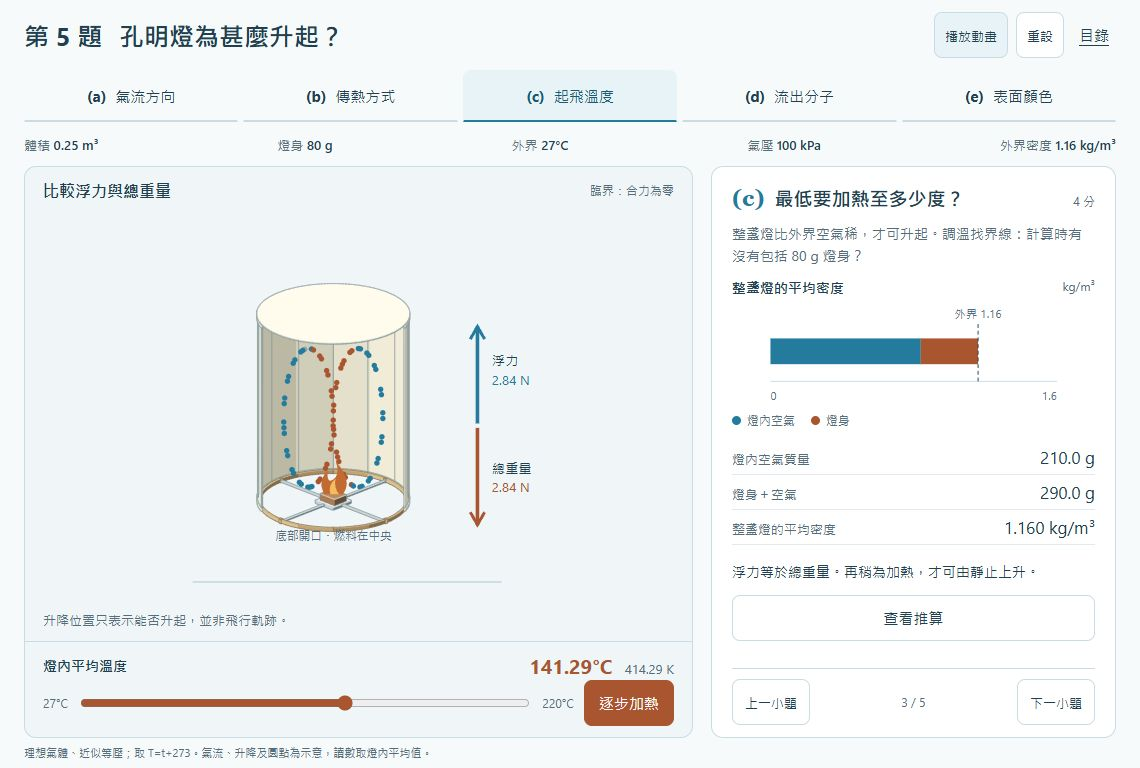
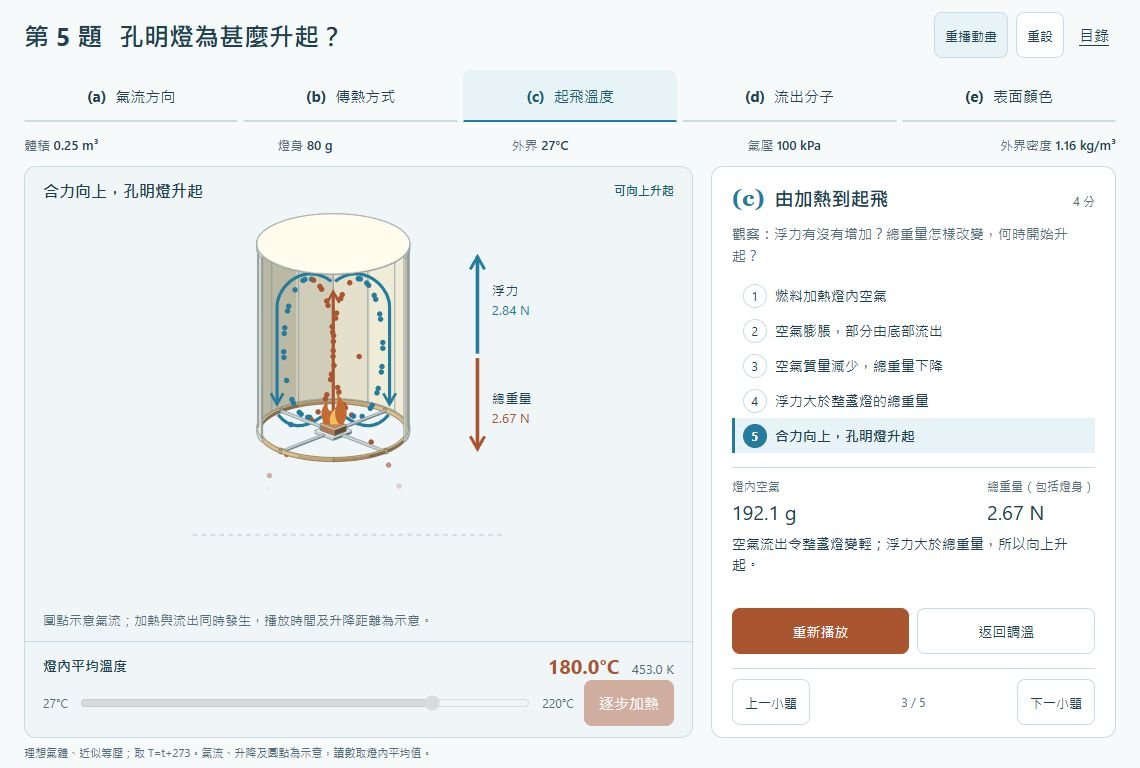
feat(lantern): 展示孔明燈由加熱到起飛的過程

diff --git a/HEAT/kongming-lantern/app.js b/HEAT/kongming-lantern/app.js
@@ -12,6 +12,7 @@
   const reducedMotion = matchMedia("(prefers-reduced-motion: reduce)");
   let step = "a", state = Lantern.solve(27), running = !reducedMotion.matches;
   let heating = false, showArrows = false, phase = 0, lastTime;
+  let flight = null;
   let weights = Lantern.portions(state);
   const svgNS = "http://www.w3.org/2000/svg";
   $("art-back").innerHTML = lanternArt.back;
@@ -55,33 +56,51 @@
   function paint() {
     const flow = Math.min(1, (state.celsius - 27) / 35);
     const microscopic = step === "d";
-    const lift = ["c", "d"].includes(step) ? Math.min(62, Math.max(0, state.netForce) * 130) : 0;
+    const lift = flight ? flight.lift : ["c", "d"].includes(step) ? Math.min(62, Math.max(0, state.netForce) * 130) : 0;
     $("lamp").setAttribute("transform", `translate(0 ${-lift})`);
+    const launchY = flight ? projectAir(0, 29.5, 79.2)[1] + 3 : 412;
+    $("launch-line").setAttribute("d", `M135 ${launchY}H480`);
+    $("launch-line").setAttribute("stroke-dasharray", flight ? "5 5" : "none");
     for (let i = 0; i < 100; i++) {
       const t = phase + i * 2.39996, sign = i % 2 ? 1 : -1;
       const initialH = -55 + (i % 10) * 12 + 1.5 * Math.sin(i * 4);
       const initialZ = 58 + Math.floor(i / 10) * 18 + 1.5 * Math.cos(i * 3);
-      const h = microscopic ? -55 + 110 * wave(i * 0.618 + phase * 0.21)
+      let h = microscopic ? -55 + 110 * wave(i * 0.618 + phase * 0.21)
         : initialH * (1 - flow) + sign * (26 + 26 * Math.cos(t)) * flow;
-      const z = microscopic ? 58 + 166 * wave(i * 0.414 + phase * 0.29)
+      let z = microscopic ? 58 + 166 * wave(i * 0.414 + phase * 0.29)
         : initialZ * (1 - flow) + (143 - 79 * Math.sin(t)) * flow;
+      let opacity = weights[i], leaving = false;
+      if (flight) {
+        // 圓點沿底部開口連續移動，表示氣流；數值仍由等壓氣體模型計算。
+        const departure = (1 - state.fraction) * 100 - (99 - i);
+        const approach = Math.max(0, Math.min(1, (departure + 4) / 4));
+        h = h * (1 - approach) + sign * 42 * approach;
+        z = z * (1 - approach) + 31 * approach;
+        opacity = 1;
+        if (departure > 0) {
+          h = sign * (42 + Math.min(departure, 3) * 9);
+          z = 31 - Math.min(departure, 4) * 12;
+          opacity = Math.max(0, 1 - departure / 5);
+          leaving = true;
+        }
+      }
       const [x, y] = projectAir(h, z);
       dots[i].setAttribute("cx", x);
       dots[i].setAttribute("cy", y);
-      dots[i].setAttribute("opacity", weights[i]);
-      dots[i].setAttribute("fill", !microscopic && flow > 0 && Math.cos(t) < -0.2 ? "#a95530" : "#247b9d");
+      dots[i].setAttribute("opacity", opacity);
+      dots[i].setAttribute("fill", leaving || (!microscopic && flow > 0 && Math.cos(t) < -0.2) ? "#a95530" : "#247b9d");
       const outside = projectAir(-60 + (i % 10) * 13, 7 - (Math.floor((99 - i) / 10) % 4) * 7);
       escaped[i].setAttribute("cx", outside[0]);
       escaped[i].setAttribute("cy", outside[1]);
       escaped[i].setAttribute("opacity", microscopic ? 1 - weights[i] : 0);
     }
-    const arrows = (showArrows && step === "a") || step === "b";
+    const arrows = (showArrows && step === "a") || step === "b" || !!flight;
     $("flow-arrows").style.display = arrows && flow > 0 ? "" : "none";
-    $("flow-labels").style.display = arrows && flow > 0 ? "" : "none";
+    $("flow-labels").style.display = arrows && flow > 0 && !flight ? "" : "none";
     $("forces").style.display = step === "c" ? "" : "none";
-    $("outflow").style.display = microscopic && state.celsius > 27 ? "" : "none";
-    $("opening-label").style.display = microscopic ? "none" : "";
-    $("flame").style.display = state.celsius > 27 || heating ? "" : "none";
+    $("outflow").style.display = (microscopic && state.celsius > 27) || (flight && flight.heating && flight.elapsed > 0) ? "" : "none";
+    $("opening-label").style.display = microscopic || flight ? "none" : "";
+    $("flame").style.display = state.celsius > 27 || heating || flight ? "" : "none";
     $("radiation-rays").style.display = step === "e" ? "" : "none";
     const rayStrength = state.radiation / Lantern.solve(Lantern.MAX, "dark").radiation;
     rays.forEach((ray, i) => ray.setAttribute("opacity", state.celsius === 27 ? 0 : Math.min(1, 0.15 + rayStrength) * (running ? 0.75 + 0.25 * Math.sin(phase * 2 + i) : 1)));
@@ -89,6 +108,33 @@
 
   function render() {
     weights = Lantern.portions(state);
+    const flightTitles = ["燃料加熱空氣", "空氣從底部流出", "總重量逐漸下降", "浮力大於總重量", "合力向上，孔明燈升起"];
+    text("part-title", flight ? "由加熱到起飛" : steps[step][0]);
+    text("question-prompt", flight ? "觀察：浮力有沒有增加？總重量怎樣改變，何時開始升起？" : steps[step][1]);
+    text("scene-title", flight ? flightTitles[flight.stage] : steps[step][2]);
+    $("flight-story").hidden = !flight;
+    $("flight-stop").hidden = !flight;
+    $("part-c").querySelector(".solution-toggle").hidden = !!flight;
+    $("temperature").disabled = !!flight;
+    $("heat").disabled = !!flight;
+    text("flight-play", flight ? "重新播放" : "播放起飛過程");
+    if (flight) {
+      $("part-c").querySelector(".exploration").hidden = true;
+      $("part-c").querySelector(".solution").hidden = true;
+      document.querySelectorAll(".flight-steps li").forEach((item, index) => {
+        item.classList.toggle("passed", index < flight.stage || flight.complete);
+        if (index === flight.stage) item.setAttribute("aria-current", "step");
+        else item.removeAttribute("aria-current");
+      });
+      text("flight-air", `${(state.airMass * 1000).toFixed(1)} g`);
+      text("flight-weight", `${state.weight.toFixed(2)} N`);
+      text("flight-note", state.status === "neutral" ? "臨界約 141°C：浮力＝總重量，仍未由靜止上升。再加熱看看。"
+        : flight.stage === 0 ? "火焰令空氣升溫。孔明燈的體積保持不變。"
+        : flight.stage === 1 ? "底部開口讓部分空氣流出，燈內壓強維持接近大氣壓。"
+        : flight.stage === 2 ? "流出的是空氣；燈身仍是 80 g。總重量下降，浮力維持 2.84 N。"
+        : flight.stage === 3 ? "浮力已大於總重量，出現向上的合力，開始上升。"
+        : "空氣流出令整盞燈變輕；浮力大於總重量，所以向上升起。");
+    }
     const precision = state.status === "neutral" ? 2 : 1;
     $("temperature").value = state.celsius;
     $("temperature").setAttribute("aria-valuetext", `${state.celsius.toFixed(precision)} 攝氏度，${state.temperature.toFixed(precision)} K`);
@@ -128,17 +174,19 @@
       d: "100 點代表初始空氣的等份量；下方橙點為淨流出份量。",
       e: "波線表示輻射散熱；兩種表面以相同溫度比較。"
     };
-    text("scene-caption", captions[step]);
-    text("motion", running ? "暫停動畫" : "播放動畫");
+    const caption = flight ? "圓點示意氣流；加熱與流出同時發生，播放時間及升降距離為示意。" : captions[step];
+    text("scene-caption", caption);
+    text("motion", flight?.complete ? "重播動畫" : running ? "暫停動畫" : "播放動畫");
     $("motion").setAttribute("aria-pressed", String(running));
     text("heat", heating ? "停止加熱" : "逐步加熱");
     $("heat").setAttribute("aria-pressed", String(heating));
-    text("scene-description", `${steps[step][2]}。燈內 ${state.celsius.toFixed(1)} 攝氏度，總密度 ${state.totalDensity.toFixed(3)} kg/m³。${captions[step]}`);
+    text("scene-description", `${$("scene-title").textContent}。燈內 ${state.celsius.toFixed(1)} 攝氏度，總密度 ${state.totalDensity.toFixed(3)} kg/m³。${caption}`);
     paint();
   }
 
   function selectStep(next) {
     if (!steps[next]) return;
+    if (next !== step && flight) endFlight();
     step = next;
     const index = letters.indexOf(step);
     document.querySelectorAll("[data-step]").forEach(button => {
@@ -147,9 +195,6 @@
     });
     for (const letter of letters) $("part-" + letter).hidden = letter !== step;
     text("part-number", `(${step})`);
-    text("part-title", steps[step][0]);
-    text("question-prompt", steps[step][1]);
-    text("scene-title", steps[step][2]);
     text("marks", steps[step][3] + " 分");
     text("part-position", `${index + 1} / 5`);
     $("previous").disabled = index === 0;
@@ -160,6 +205,22 @@
     state = Lantern.solve(value, state.surface);
     render();
   }
+  function endFlight() {
+    flight = null;
+    running = false;
+    $("part-c").querySelector(".exploration").hidden = false;
+  }
+  function startFlight() {
+    heating = false; running = true; phase = 0;
+    flight = Lantern.flight(0, state.surface);
+    state = flight;
+    const solutionButton = $("part-c").querySelector(".solution-toggle");
+    solutionButton.setAttribute("aria-expanded", "false");
+    solutionButton.textContent = "查看推算";
+    render();
+  }
+  $("flight-play").addEventListener("click", startFlight);
+  $("flight-stop").addEventListener("click", () => { endFlight(); render(); });
   document.querySelectorAll("[data-step]").forEach(button => button.addEventListener("click", () => selectStep(button.dataset.step)));
   $("previous").addEventListener("click", () => selectStep(letters[letters.indexOf(step) - 1]));
   $("next").addEventListener("click", () => selectStep(letters[letters.indexOf(step) + 1]));
@@ -169,7 +230,10 @@
     if (heating) running = true;
     render();
   });
-  $("motion").addEventListener("click", () => { running = !running; if (!running) heating = false; render(); });
+  $("motion").addEventListener("click", () => {
+    if (flight?.complete) { startFlight(); return; }
+    running = !running; if (!running) heating = false; render();
+  });
   $("arrows").addEventListener("click", () => {
     showArrows = !showArrows;
     $("arrows").setAttribute("aria-pressed", String(showArrows));
@@ -193,8 +257,8 @@
     const expanded = button.getAttribute("aria-expanded") !== "true";
     button.setAttribute("aria-expanded", String(expanded));
     button.textContent = expanded ? "返回觀察" : "查看推算";
-    button.parentElement.querySelector(".solution").hidden = !expanded;
-    button.parentElement.querySelector(".exploration").hidden = expanded;
+    button.closest(".part").querySelector(".solution").hidden = !expanded;
+    button.closest(".part").querySelector(".exploration").hidden = expanded;
   }));
   document.querySelectorAll("[data-surface]").forEach(button => button.addEventListener("click", () => {
     document.querySelectorAll("[data-surface]").forEach(b => b.setAttribute("aria-pressed", String(b === button)));
@@ -202,6 +266,7 @@
     render();
   }));
   $("reset").addEventListener("click", () => {
+    flight = null;
     heating = false; running = !reducedMotion.matches; showArrows = false; phase = 0;
     state = Lantern.solve(27);
     $("arrows").setAttribute("aria-pressed", "false");
@@ -212,8 +277,8 @@
     document.querySelectorAll("[data-surface]").forEach(b => b.setAttribute("aria-pressed", String(b.dataset.surface === "light")));
     document.querySelectorAll(".solution-toggle").forEach(b => {
       b.setAttribute("aria-expanded", "false"); b.textContent = "查看推算";
-      b.parentElement.querySelector(".solution").hidden = true;
-      b.parentElement.querySelector(".exploration").hidden = false;
+      b.closest(".part").querySelector(".solution").hidden = true;
+      b.closest(".part").querySelector(".exploration").hidden = false;
     });
     selectStep("a");
   });
@@ -225,7 +290,12 @@
     lastTime = now;
     if (running && !document.hidden) {
       phase += dt * 1.3 * Math.sqrt(state.temperature / Lantern.T0);
-      if (heating) {
+      if (flight) {
+        flight = Lantern.flight(flight.elapsed + dt, state.surface);
+        state = flight;
+        if (flight.complete) running = false;
+        render();
+      } else if (heating) {
         const next = Lantern.heat(state.celsius, dt);
         if (next === Lantern.MAX) heating = false;
         setTemperature(next);

diff --git a/HEAT/kongming-lantern/style.css b/HEAT/kongming-lantern/style.css
@@ -1,4 +1,5 @@
 :root{--paper:#f6fafb;--ink:#203f50;--muted:#536d7a;--line:#c9dce3;--blue:#247b9d;--warm:#a95530;--pale:#e8f3f7;color-scheme:light;font:15px "Segoe UI","Microsoft JhengHei",sans-serif;color:var(--ink);background:#e7eff3}
+.flight-actions{display:flex;gap:8px;grid-column:1/-1;margin-top:12px}.flight-actions button{flex:1;min-width:0;font-size:14px}.flight-actions .solution-toggle{margin:0;width:auto}.flight-steps{list-style:none;margin:0;padding:0}.flight-steps li{display:flex;align-items:center;gap:8px;min-height:35px;padding:4px 8px;border-left:3px solid transparent;font-size:14px;color:var(--muted)}.flight-steps li>span{display:grid;place-items:center;flex:none;width:24px;height:24px;border:1px solid var(--line);border-radius:50%;font-size:12px}.flight-steps li.passed{color:var(--ink)}.flight-steps li[aria-current]{background:var(--pale);color:var(--ink);border-left-color:var(--blue);font-weight:650}.flight-steps li[aria-current]>span{background:var(--blue);border-color:var(--blue);color:white}.flight-readings{display:flex;justify-content:space-between;gap:12px;margin:14px 0 8px;padding-top:10px;border-top:1px solid var(--line)}.flight-readings dt{font-size:12px;color:var(--muted)}.flight-readings dd{margin-top:4px;font-size:20px;font-variant-numeric:tabular-nums}#flight-note{font-size:14px;line-height:1.5;min-height:63px}#flight-story{grid-column:1/-1}input:disabled{cursor:default;opacity:.65}
 *{box-sizing:border-box}html,body{margin:0;width:100%;min-height:100%}body{display:grid;place-items:center}h1,h2,h3,p,figure,dl,dd{margin:0}button,input{font:inherit}button,a,input{touch-action:manipulation}button{min-height:46px;padding:8px 14px;border:1px solid var(--line);border-radius:8px;background:#fff;color:var(--ink);cursor:pointer}button:hover{background:var(--pale)}button:disabled{opacity:.45;cursor:default}button:focus-visible,a:focus-visible,input:focus-visible{outline:3px solid var(--warm);outline-offset:3px}::selection{background:#c6e7ee;color:var(--ink)}
 .app{width:min(1140px,100vw);height:min(768px,100svh);padding:env(safe-area-inset-top) env(safe-area-inset-right) env(safe-area-inset-bottom) env(safe-area-inset-left);background:var(--paper);display:grid;grid-template-rows:70px 52px 44px minmax(0,1fr) 30px}
 .topbar{display:flex;align-items:center;justify-content:space-between;gap:12px;padding:0 24px}h1{font-size:25px;font-weight:650;white-space:nowrap}h1 span{margin-left:10px}.header-actions{display:flex;align-items:center;gap:8px}.header-actions a{display:grid;place-items:center;min-width:44px;min-height:44px;color:var(--ink);text-underline-offset:4px}.header-actions button{font-size:13px;padding-inline:10px}
@@ -18,3 +19,7 @@ footer{display:flex;align-items:center;padding:0 24px;font-size:11px;line-height
 
 @media(orientation:portrait){#scene text{font-size:19px}#scene text.small{font-size:17px}}
 @media(max-width:620px){.app{width:100%;height:auto;min-height:100svh;grid-template-rows:68px 52px 48px auto auto}.workspace{grid-template-rows:410px auto}aside{min-height:410px}.part:not([hidden]),.part>.exploration,.part>.solution{display:flex;flex-direction:column;gap:10px}.part>.exploration,.part>.solution{width:100%}.readings,.density-chart,.loss-chart{width:100%}.solution-toggle{width:100%;margin-block:10px}.solution{font-size:14px}.solution .katex{font-size:1em}.surfaces{flex-direction:row}.readings dt{font-size:12px}.readings dd{font-size:16px}.quiet,.observation{font-size:12px}.part-navigation{margin-top:12px}footer{padding-block:10px}}
+
+@media(max-height:730px) and (orientation:landscape){.flight-steps li{min-height:31px;padding-block:2px}.flight-readings{margin-top:8px;padding-top:6px}.flight-readings dd{font-size:18px}#flight-note{font-size:13px;min-height:54px}.flight-actions{margin-top:8px}}
+@media(orientation:portrait) and (min-width:621px){#flight-story{display:grid;grid-template-columns:1fr 1fr;column-gap:22px}.flight-steps{grid-column:1;grid-row:1/3}.flight-readings{grid-column:2;grid-row:1;margin-top:0}#flight-note{grid-column:2;grid-row:2;align-self:start}.flight-actions{margin-top:4px}}
+@media(max-width:620px){.flight-actions{width:100%;margin-top:8px}.flight-actions .solution-toggle{min-width:0}#flight-note{min-height:0}}

diff --git a/HEAT/kongming-lantern/index.html b/HEAT/kongming-lantern/index.html
@@ -34,7 +34,7 @@
           <marker id="warm-arrow" viewBox="0 0 10 10" refX="8" refY="5" markerWidth="5" markerHeight="5" orient="auto-start-reverse"><path d="M1 1 8 5 1 9" fill="none" stroke="#a95530" stroke-width="1.7"/></marker>
           <marker id="cool-arrow" viewBox="0 0 10 10" refX="8" refY="5" markerWidth="5" markerHeight="5" orient="auto-start-reverse"><path d="M1 1 8 5 1 9" fill="none" stroke="#247b9d" stroke-width="1.7"/></marker>
         </defs>
-        <path d="M135 412H480" stroke="#c9dce3" stroke-width="2"/>
+        <path id="launch-line" d="M135 412H480" stroke="#c9dce3" stroke-width="2"/>
         <g id="lamp">
           <g id="art-back"></g>
           <g id="air-dots" aria-hidden="true"></g>
@@ -80,13 +80,24 @@
         <div class="process"><span>空氣受熱</span><span>密度下降並上升</span><span>流動的空氣攜帶能量</span></div>
       </div>
       <div class="part" id="part-c" hidden>
+        <div id="flight-story" hidden>
+          <ol class="flight-steps" aria-label="由加熱到起飛的過程">
+            <li><span>1</span>燃料加熱燈內空氣</li>
+            <li><span>2</span>空氣膨脹，部分由底部流出</li>
+            <li><span>3</span>空氣質量減少，總重量下降</li>
+            <li><span>4</span>浮力大於整盞燈的總重量</li>
+            <li><span>5</span>合力向上，孔明燈升起</li>
+          </ol>
+          <dl class="flight-readings"><div><dt>燈內空氣</dt><dd id="flight-air"></dd></div><div><dt>總重量（包括燈身）</dt><dd id="flight-weight"></dd></div></dl>
+          <p id="flight-note" role="status"></p>
+        </div>
         <div class="exploration">
           <figure class="density-chart"><figcaption>整盞燈的平均密度 <small>kg/m³</small></figcaption><svg viewBox="0 0 330 110" role="img" aria-label="燈內空氣及燈身對平均密度的貢獻，與外界密度比較"><path d="M15 80H315" class="axis"/><rect id="air-bar" x="15" y="35" height="27" fill="#247b9d"/><rect id="shell-bar" y="35" height="27" fill="#a95530"/><path d="M232.5 20V82" stroke="#203f50" stroke-dasharray="4 3"/><text x="232.5" y="14" text-anchor="middle">外界 1.16</text><text x="15" y="100">0</text><text x="315" y="100" text-anchor="end">1.6</text></svg><div class="observation"><span class="dot cool-dot"></span>燈內空氣<span class="dot warm-dot"></span>燈身</div></figure>
           <dl class="readings"><div><dt>燈內空氣質量</dt><dd id="air-mass"></dd></div><div><dt>燈身＋空氣</dt><dd id="total-mass"></dd></div><div><dt>整盞燈的平均密度</dt><dd id="whole-density"></dd></div></dl>
           <p id="density-feedback" class="explanation" role="status"></p>
         </div>
         <div class="solution" hidden><p>剛好臨界：整盞燈的平均密度等於外界。</p><div data-math="m_{\rm air}=\rho_0V-M=0.210\,\mathrm{kg}"></div><p>等壓下，同種氣體的密度與絕對溫度成反比。</p><div data-math="\rho_{\rm air}=\frac{0.210}{0.25}=0.840\,\mathrm{kg\,m^{-3}}"></div><div data-math="T=\frac{1.16\times300}{0.840}=414.3\,\mathrm K"></div><div data-math="t=414.3-273\approx141\,{}^\circ\mathrm C"></div><p class="quiet">臨界時合力為零；再稍為加熱，才可由靜止上升。</p><button class="critical wide">設至臨界溫度</button></div>
-        <button class="solution-toggle wide" aria-expanded="false">查看推算</button>
+        <div class="flight-actions"><button id="flight-play" class="primary">播放起飛過程</button><button id="flight-stop" hidden>返回調溫</button><button class="solution-toggle" aria-expanded="false">查看推算</button></div>
       </div>
       <div class="part" id="part-d" hidden>
         <div class="exploration">

diff --git a/HEAT/kongming-lantern/physics-check.js b/HEAT/kongming-lantern/physics-check.js
@@ -45,4 +45,31 @@ close(L.heat(219, 10), L.MAX);
 for (const value of [NaN, Infinity, -Infinity, 26.9, 220.1]) assert.throws(() => L.solve(value), RangeError);
 assert.throws(() => L.solve(100, "unknown"), RangeError);
 assert.throws(() => L.heat(100, -1), RangeError);
-console.log("通過：臨界起飛條件、總質量、等壓氣體定律、初末分子數守恆、100 份圖像權重、等溫表面比較與輸入範圍。");
+const stages = new Set();
+let previousFlight = L.flight(0);
+for (let time = 0; time <= L.FLIGHT_DURATION; time += 0.125) {
+  const current = L.flight(time);
+  stages.add(current.stage);
+  close(current.buoyancy, initial.buoyancy);
+  close(current.totalMass, current.airMass + L.M);
+  close(current.molecules * L.R / L.NA * current.temperature, L.P * L.V);
+  assert.ok(current.celsius >= previousFlight.celsius && current.lift >= previousFlight.lift);
+  assert.ok(current.airMass <= previousFlight.airMass);
+  if (current.status !== "rise") assert.equal(current.lift, 0, "合力未向上，不可先升起");
+  if (current.lift > 0) assert.ok(current.buoyancy > current.weight);
+  previousFlight = current;
+}
+assert.deepEqual([...stages], [0, 1, 2, 3, 4]);
+for (const time of [16, 17, 18]) {
+  assert.equal(L.flight(time).status, "neutral");
+  close(L.flight(time).celsius, L.CRITICAL);
+}
+assert.equal(L.flight(L.FLIGHT_DURATION).complete, true);
+assert.deepEqual(L.flight(100), L.flight(L.FLIGHT_DURATION));
+for (const boundary of [3, 8, 16, 18, 21, 24, 28]) {
+  const before = L.flight(boundary - 1e-6), after = L.flight(boundary + 1e-6);
+  assert.ok(Math.abs(after.celsius - before.celsius) < 0.0001);
+  assert.ok(Math.abs(after.lift - before.lift) < 0.0001);
+}
+for (const time of [-1, NaN, Infinity]) assert.throws(() => L.flight(time), RangeError);
+console.log("通過：臨界條件、質量與分子數守恆、等溫比較，以及連續起飛過程的五階段、臨界停留和上升時機。");

diff --git a/HEAT/kongming-lantern/model.js b/HEAT/kongming-lantern/model.js
@@ -44,5 +44,20 @@
     return solve(Math.min(MAX, celsius + seconds * 12)).celsius;
   }
 
-  return { V, M, P, RHO, T0, R, NA, G, MIN, MAX, INITIAL_MASS, INITIAL_N, CRITICAL, surfaces, solve, portions, heat };
+  const FLIGHT_DURATION = 28;
+  function flight(seconds, surface = "light") {
+    if (!Number.isFinite(seconds) || seconds < 0) throw new RangeError("播放時間須為非負有限數值。");
+    const elapsed = Math.min(seconds, FLIGHT_DURATION);
+    const celsius = elapsed < 8 ? MIN + (90 - MIN) * elapsed / 8
+      : elapsed < 16 ? 90 + (CRITICAL - 90) * (elapsed - 8) / 8
+      : elapsed <= 18 ? CRITICAL
+      : elapsed < 24 ? CRITICAL + (180 - CRITICAL) * (elapsed - 18) / 6 : 180;
+    const state = solve(celsius, surface);
+    const stage = elapsed < 3 ? 0 : elapsed < 8 ? 1 : elapsed <= 18 ? 2 : elapsed < 21 ? 3 : 4;
+    // shortcut: 播放節奏與升降距離只作因果示意；研究飛行速度時才加入熱功率及阻力模型。
+    const lift = state.status === "rise" ? 78 * ((elapsed - 18) / 10) ** 2 : 0;
+    return { ...state, elapsed, stage, lift, heating: elapsed < 16 || (elapsed > 18 && elapsed < 24), complete: elapsed === FLIGHT_DURATION };
+  }
+
+  return { V, M, P, RHO, T0, R, NA, G, MIN, MAX, INITIAL_MASS, INITIAL_N, CRITICAL, surfaces, solve, portions, heat, FLIGHT_DURATION, flight };
 });
